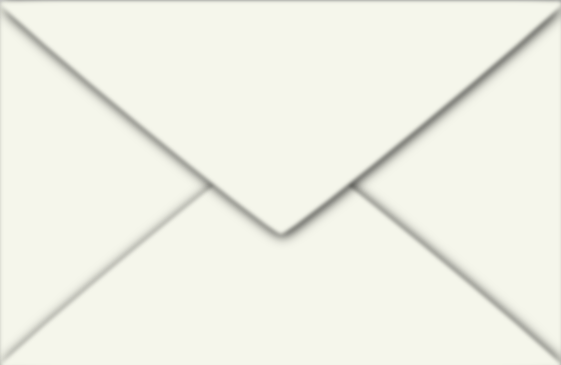
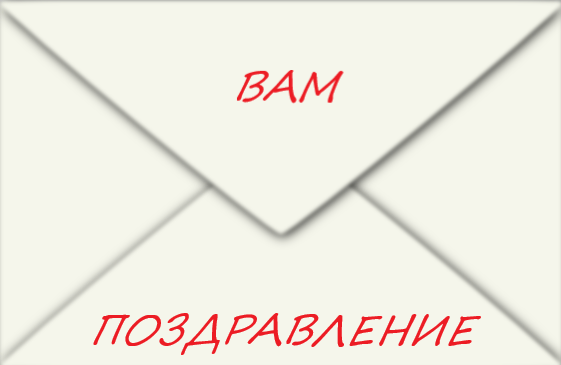
styles added

Changed region(s): [[0.1515, 0.8438, 0.8485, 0.9644], [0.4242, 0.1808, 0.6364, 0.3014]]

diff --git a/src/letter.css b/src/letter.css
@@ -1,1 +1,78 @@
 @import url('https://fonts.googleapis.com/css2?family=Redressed&display=swap'); #mainh1{ color: yellow; font-family: 'Redressed', курсив; }
+
+
+
+button {
+  background: white;
+  width: 60%;
+  border: solid 2px black;
+  padding: .375em 1.125em;
+  margin-top: 0.1em;
+  font-size: 1rem;
+ opacity:0; /*Элемент полностью прозрачный (невидимый)*/
+transition: 1s; /*Скорость перехода состояния элемента*/
+animation: show 3s 1; /* Указываем название анимации, её время и количество повторов*/
+animation-fill-mode: forwards; /* Чтобы элемент оставался в конечном состоянии анимации */
+animation-delay: 2s; /* Задержка перед началом */
+
+}
+
+@keyframes show{
+0%{
+opacity:0;
+}
+100% {
+opacity:1;
+}
+}
+
+.letter_btn {
+  font-size: 2rem;
+  background: hsl(152, 89%, 25%);
+  color: hsl(190deg, 10%, 95%);
+  
+  box-shadow: 0 0px 0px hsla(190deg, 15%, 5%, .2);
+  transfrom: translateY(0);
+  border-top-left-radius: 0px;
+  border-top-right-radius: 0px;
+  border-bottom-left-radius: 0px;
+  border-bottom-right-radius: 0px;
+  
+  --dur: .15s;
+  --delay: .15s;
+  --radius: 16px;
+  
+  transition:
+    border-top-left-radius var(--dur) var(--delay) ease-out,
+    border-top-right-radius var(--dur) calc(var(--delay) * 2) ease-out,
+    border-bottom-right-radius var(--dur) calc(var(--delay) * 3) ease-out,
+    border-bottom-left-radius var(--dur) calc(var(--delay) * 4) ease-out,
+    box-shadow calc(var(--dur) * 4) ease-out,
+    transform calc(var(--dur) * 4) ease-out,
+    background calc(var(--dur) * 4) steps(4, jump-end);
+}
+
+.letter_btn:hover,
+.letter_btn:focus {
+  box-shadow: 0 4px 8px hsla(190deg, 15%, 5%, .2);
+  transform: translateY(-4px);
+  background: hsl(230deg, 50%, 45%);
+  border-top-left-radius: var(--radius);
+  border-top-right-radius: var(--radius);
+  border-bottom-left-radius: var(--radius);
+  border-bottom-right-radius: var(--radius);
+}
+
+@media screen and (orientation: portrait) {
+    button {
+  width: 99%;
+}
+
+.letter_btn:focus {
+   background-color: #3f51b5; /* Цвет фона */
+    color: #fff; /* Белый цвет текста */
+
+    border-width: 0; /* Убираем рамку */
+}
+}
+

diff --git a/src/App.css b/src/App.css
@@ -14,6 +14,7 @@
 .App-header {
   background-color: #282c34;
   min-height: 30%;
+  padding: 0;
 
 }
 
@@ -28,6 +29,7 @@ text-align: center;
 font-size: 15vh;
 font-family: Redressed;
 color: #d6c800;
+padding: 0.1em;
 }
 
 .App-link {
@@ -37,9 +39,13 @@ color: #d6c800;
 @keyframes growAndRotate {  
     0% { transform: scale(0) rotate(0); }  
     
-    100% { transform: scale(1.5) rotate(360deg); }  
+    100% { transform: scale(1) rotate(360deg); }  
 }  
-.letter_img { animation: growAndRotate 3s ; } 
+.letter_img { 
+  animation: growAndRotate 3s ;
+  margin: 0.5em auto; 
+  width: 60%;
+} 
 
 .letter {
   display: flex;
@@ -49,4 +55,18 @@ color: #d6c800;
 
 ._hidden {
   display: none;
+}
+
+@media screen and (orientation: portrait) {
+    .h_text {
+text-align: center;
+font-size: 10vh;
+font-family: Redressed;
+color: #d6c800;
+padding: 0.1em;
+}
+
+.letter_img { 
+  width: 99%;
+}
 }

diff --git a/src/index.css b/src/index.css
@@ -1,5 +1,6 @@
 body {
   margin: 0;
+  padding: 0;
   font-family: -apple-system, BlinkMacSystemFont, 'Segoe UI', 'Roboto', 'Oxygen',
     'Ubuntu', 'Cantarell', 'Fira Sans', 'Droid Sans', 'Helvetica Neue',
     sans-serif;
@@ -10,4 +11,14 @@ body {
 code {
   font-family: source-code-pro, Menlo, Monaco, Consolas, 'Courier New',
     monospace;
+   
+}
+
+* {
+  box-sizing: border-box;
+}
+
+#root {
+  margin: 0;
+  padding: 0;
 }

diff --git a/src/VideoLaunch.jsx b/src/VideoLaunch.jsx
@@ -1,11 +1,10 @@
 import video from './video/video.mp4'
-
-
+import './video.css'
 
 function VideoLaunch () {
 return(
-  <div>
-  <video width="800"  controls autoplay loop src={video} type="video/mp4">
+  <div className='videoBox'>
+  <video width="100%"  controls autoplay="on" loop src={video} type="video/mp4">
   Your browser does not support the video tag.
 </video>
 </div>

diff --git a/src/index.js b/src/index.js
@@ -11,7 +11,5 @@ root.render(
   </React.StrictMode>
 );
 
-// If you want to start measuring performance in your app, pass a function
-// to log results (for example: reportWebVitals(console.log))
-// or send to an analytics endpoint. Learn more: https://bit.ly/CRA-vitals
+
 

diff --git a/src/Letter.jsx b/src/Letter.jsx
@@ -1,6 +1,7 @@
 import { useState } from 'react';
 import envelope from './img/envelope.png'
 import VideoLaunch from './VideoLaunch';
+import './letter.css'
 
 function Letter() {
      const [isLetterOpen, setIsLetterOpen] = useState(true);

diff --git a/src/video.css b/src/video.css
@@ -1,0 +1,11 @@
+.videoBox {
+    margin: 0.5em auto;
+    width: 80%;
+}
+
+@media screen and (orientation: portrait) {
+    .videoBox {
+    margin: 0.5em auto;
+    width: 99%;
+}
+}

diff --git a/public/index.html b/public/index.html
@@ -10,10 +10,9 @@
     />
 
 
-    <title>Happy birthsday</title>
+    <title>Happy birthday</title>
   </head>
   <body>
-<img src="" alt="">
     <div id="root"></div>
 
   </body>
